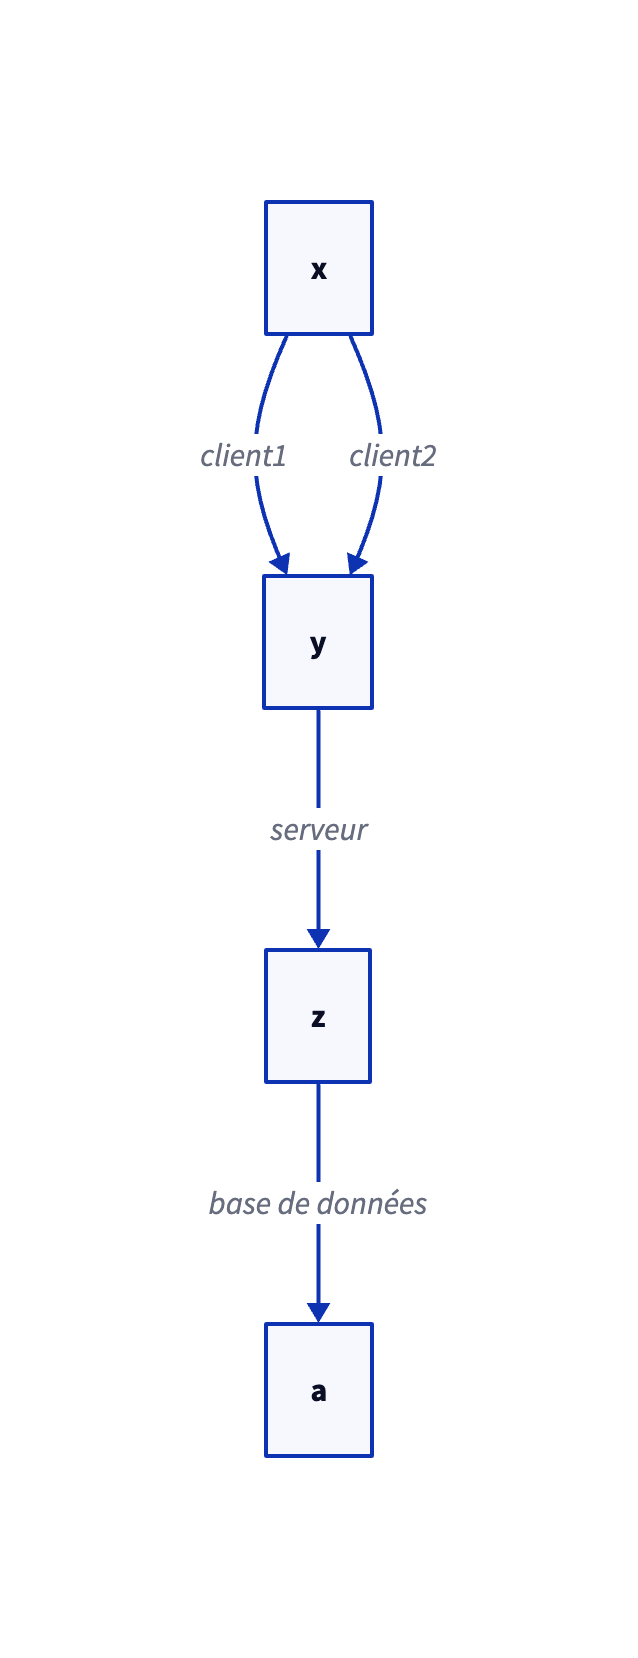
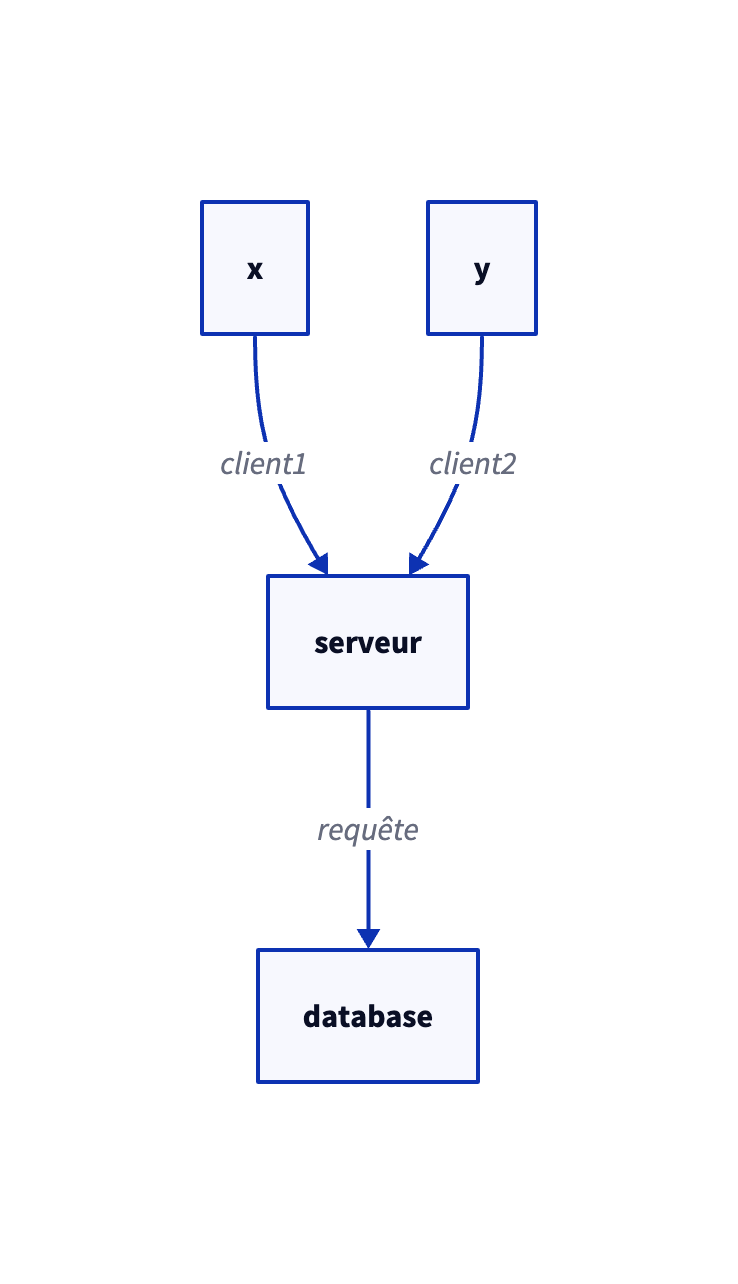
Seuil adaptatif + prompt système amélioré

diff --git a/pipeline.js b/pipeline.js
@@ -75,7 +75,7 @@ async function fetchD2Doc() {
     return fullDoc;
     
   } catch (err) {
-    console.warn("⚠ Erreur lors du téléchargement, utilisation du fallback...");
+    console.log("⚠ Erreur lors du téléchargement, utilisation du fallback...");
     if (fs.existsSync(fallbackFile)) {
       return fs.readFileSync(fallbackFile, 'utf-8');
     }
@@ -92,7 +92,11 @@ async function generateD2(prompt, ragText, feedback = "") {
       {
         role: "system",
         content:
-          "Tu écris uniquement du code D2 valide, sans texte explicatif, en respectant la documentation officielle de D2lang.",
+          `Tu écris uniquement du code D2 valide, sans texte explicatif, en respectant la documentation officielle de D2lang.
+IMPORTANT : 
+- Utilise des identifiants simples sans guillemets quand possible (ex: client1, serveur, database)
+- Si tu dois utiliser des guillemets, assure-toi qu'ils soient bien fermés
+- Teste mentalement la syntaxe avant de générer le code`,
       },
       {
         role: "user",
@@ -206,7 +210,21 @@ async function embedding(text) {
 async function main() {
   const ragText = await fetchD2Doc();
   let feedback = "";
-  const seuil_comparaison = 0.90;
+  
+  // Seuil adaptatif selon la longueur/précision du prompt
+  const promptWords = userPrompt.split(/\s+/).length;
+  let seuil_comparaison;
+  if (promptWords >= 10) {
+    seuil_comparaison = 0.78; // Prompt détaillé = seuil élevé
+  } else if (promptWords >= 6) {
+    seuil_comparaison = 0.72; // Prompt moyen
+  } else {
+    seuil_comparaison = 0.68; // Prompt court/vague = seuil plus bas
+  }
+  console.log(`🎯 Seuil de cohérence : ${seuil_comparaison} (prompt : ${promptWords} mots)`);
+  
+  let bestScore = 0;
+  let bestIteration = 0;
 
   for (let i = 0; i < 5; i++) {
     const iterStart = Date.now();//Mesure le temps de début d'itération
@@ -244,6 +262,12 @@ async function main() {
       
       const sim = await cosineSimilarity(embPrompt, embCaption);//Mesure le temps de similarité
       console.log(`📊 Similarité cosinus : ${sim.toFixed(3)}`);
+      
+      // Tracker le meilleur score
+      if (sim > bestScore) {
+        bestScore = sim;
+        bestIteration = i + 1;
+      }
 
       if (sim >= seuil_comparaison) {
         timings.iteration.push(Date.now() - iterStart);
@@ -251,16 +275,24 @@ async function main() {
         printPerformanceStats();//
         return;
       } else {
-        feedback = `Le diagramme ne correspond pas assez bien (${sim.toFixed(
-          3
-        )}). Caption : ${caption}. Corrige le code.`;
+        // Feedback détaillé pour guider le LLM
+        feedback = `Similarité actuelle : ${sim.toFixed(3)} (objectif : ${seuil_comparaison}).
+        
+Ce que Pixtral voit dans l'image : "${caption}"
+Ce que l'utilisateur a demandé : "${userPrompt}"
+
+Instructions pour améliorer :
+- Utilise des noms DESCRIPTIFS qui correspondent aux termes du prompt
+- Respecte EXACTEMENT tous les éléments mentionnés dans : "${userPrompt}"
+- Améliore le diagramme précédent au lieu de recommencer
+- Choisis les formes D2 appropriées selon le contexte (rectangle, cylinder, circle, person, etc.)`;
       }
     } else {
       feedback = `Erreur de compilation : ${result}`;
     }
     timings.iteration.push(Date.now() - iterStart);//
   }
-  console.warn("⚠ Aucune itération n'a produit un diagramme cohérent.");
+  console.log(`⚠ Seuil (${seuil_comparaison}) non atteint. Meilleur score : ${bestScore.toFixed(3)} (itération ${bestIteration})`);
   printPerformanceStats();
 }
 

diff --git a/server.js b/server.js
@@ -11,6 +11,11 @@ app.use(cors());
 app.use(express.json());
 app.use(express.static(__dirname)); // sert index.html et images
 
+// Supprime les codes couleurs ANSI des logs
+function stripAnsi(str) {
+  return str.replace(/[\u001b\u009b][[\]()#;?]*(?:[0-9]{1,4}(?:;[0-9]{0,4})*)?[0-9A-ORZcf-nqry=><]/g, "");
+}
+
 // --- Flux temps réel (SSE) ---
 app.get("/logs", (req, res) => {
   res.writeHead(200, {
@@ -30,7 +35,7 @@ app.get("/logs", (req, res) => {
   console.log(`▶ Pipeline lancé pour ${prompt}`);
 
   proc.stdout.on("data", (data) => {
-    const msg = data.toString();
+    const msg = stripAnsi(data.toString());
 
     // Si une image est générée
     const match = msg.match(/diagram_iter(\d+)\.png/);
@@ -47,8 +52,14 @@ app.get("/logs", (req, res) => {
   });
 
   proc.stderr.on("data", (data) => {
-    const msg = `[ERR] ${data.toString()}`;
-    res.write(`data: ${msg}\n\n`);
+    let raw = stripAnsi(data.toString());
+    // d2 écrit parfois les lignes de succès sur stderr avec couleurs
+    if (/success: successfully compiled/i.test(raw)) {
+      res.write(`data: ${raw}\n\n`);
+    } else {
+      const msg = `[ERR] ${raw}`;
+      res.write(`data: ${msg}\n\n`);
+    }
   });
 
   proc.on("close", () => {
@@ -60,3 +71,4 @@ app.get("/logs", (req, res) => {
 app.listen(3000, () =>
   console.log("🌐 Interface sur http://localhost:3000")
 );
+

diff --git a/index.html b/index.html
@@ -201,7 +201,9 @@ function startPipeline() {
             // Affichage dans la zone logs
             let className = "log-entry";
             if (line.includes("❌")) className += " log-error";
+            if (line.includes("✅") || line.includes("success:")) className += " log-success";
             if (line.includes("Similarité")) className += " log-highlight";
+            if (line.includes("🧠 Caption")) className += " log-highlight";
             appendLog(line, className);
 
             // Si aucune itération courante, on ignore les métriques

diff --git a/README.md b/README.md
@@ -75,4 +75,6 @@ Logs du pipeline affichés en direct
 
 Images des différentes itérations affichées au fur et à mesure
 
-Arrêt automatique une fois qu’un diagramme cohérent est obtenu
+Statistiques de performance en temps réel (temps de génération, compilation, vision, embeddings)
+
+Arrêt automatique une fois qu’un diagramme cohérent est obtenu (seuil de similarité : 0.75)
